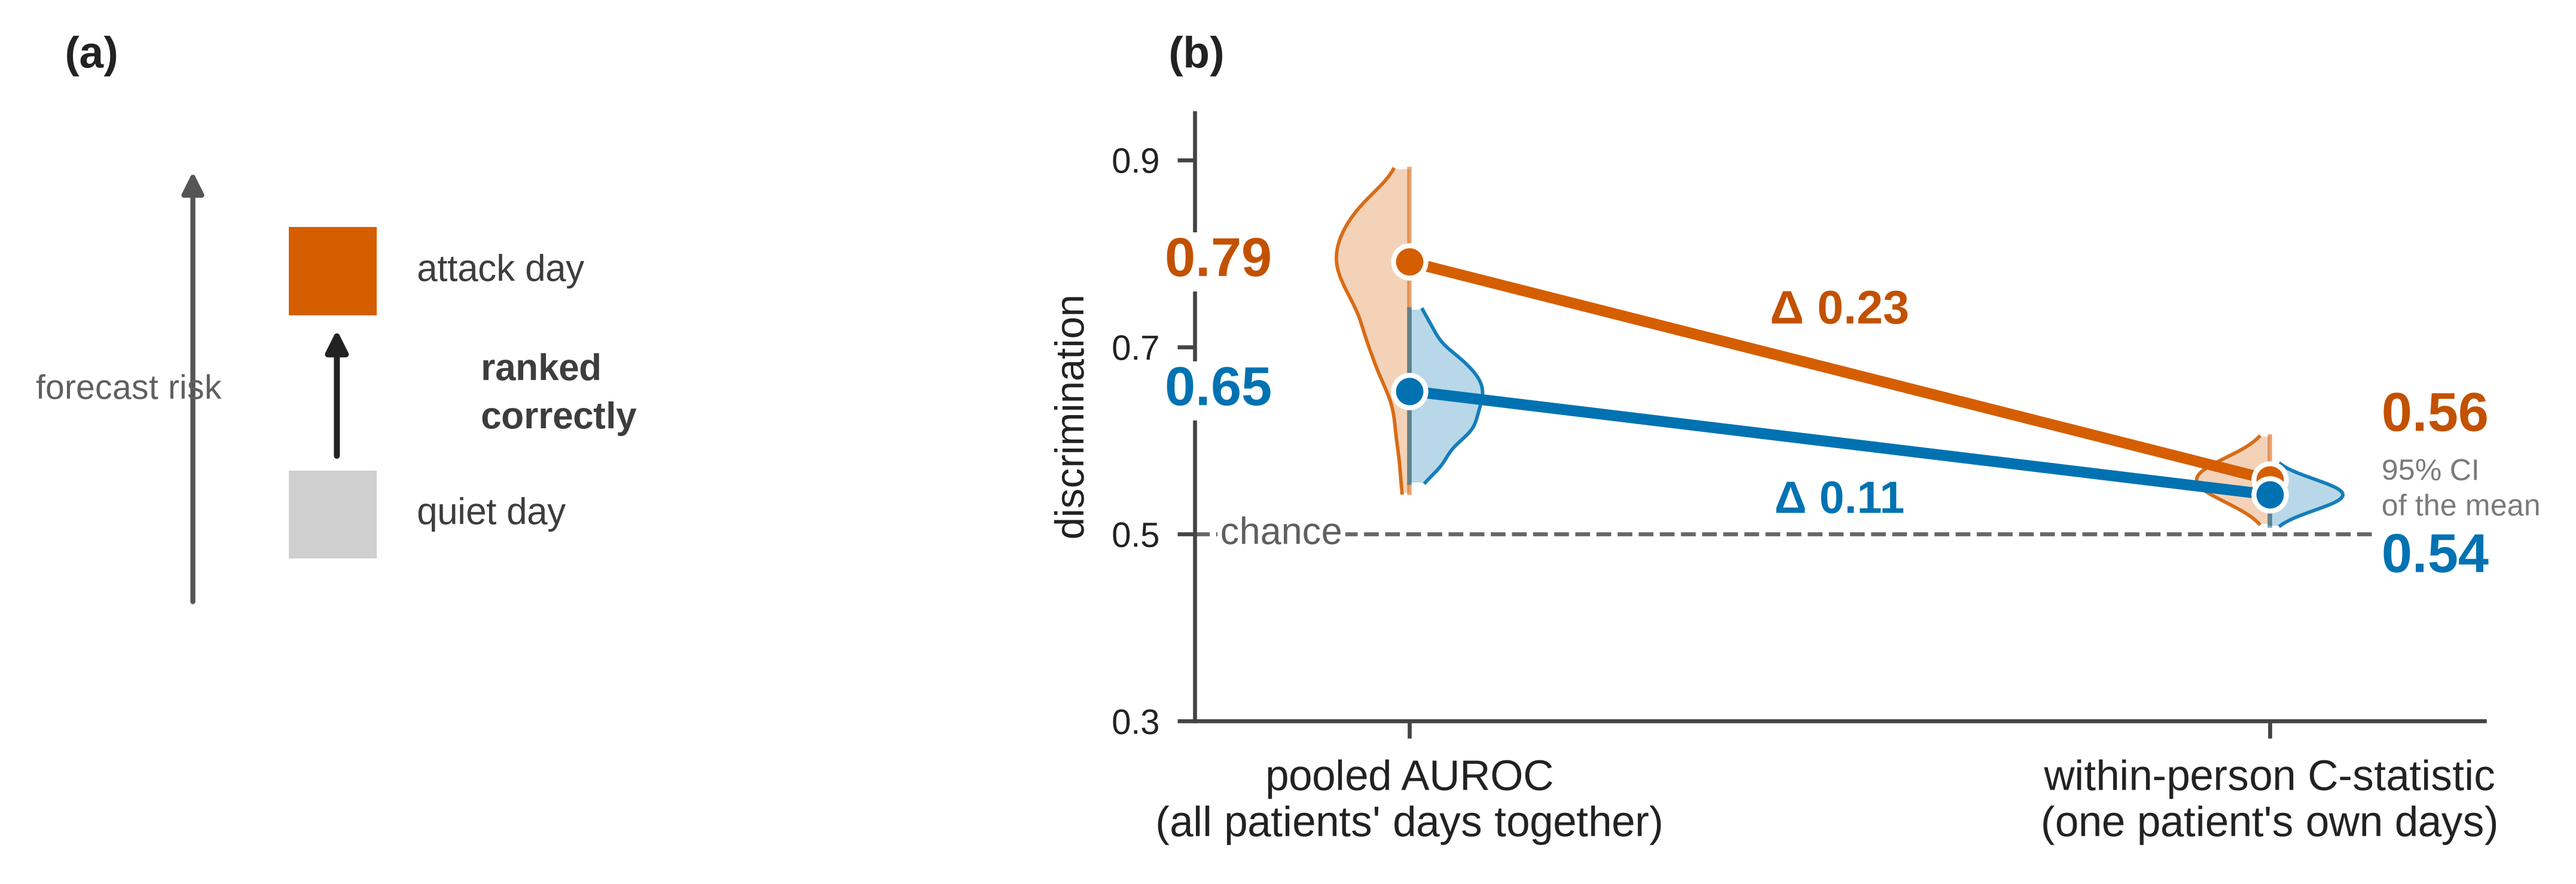
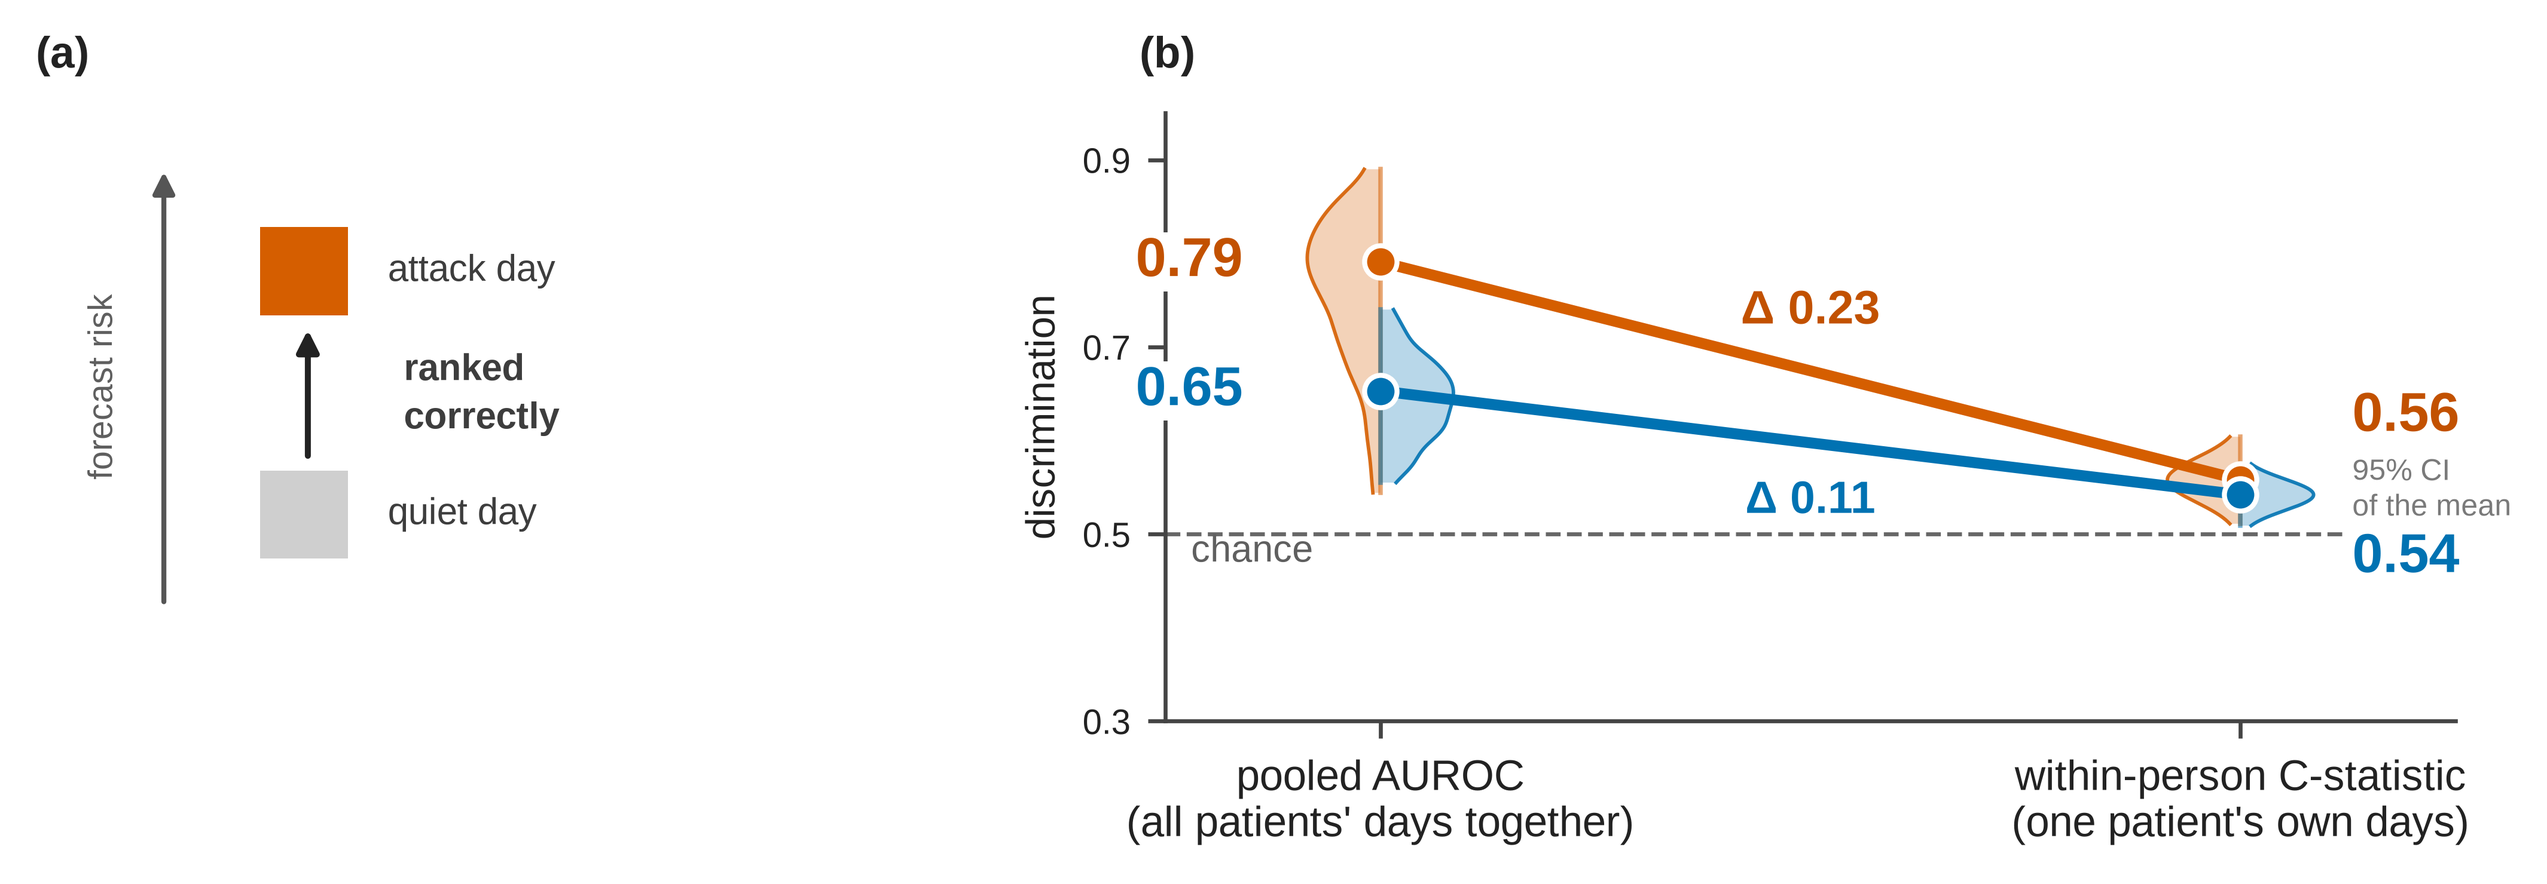
chan2

diff --git a/docs/methodAndResults_diagramCreatorScripts/fig_m_evaluation_series.py b/docs/methodAndResults_diagramCreatorScripts/fig_m_evaluation_series.py
@@ -81,9 +81,10 @@ PT_HEAD, PT_VALUE, PT_AXIS, PT_TICK, PT_BODY, PT_FINE = 8.8, 11.0, 8.0, 7.0, 7.4
 BODY, SECOND, THIRD = "#3d3d3d", "#5f5f5f", "#7a7a7a"
 
 
-def _lab(ax, x, y, t, size=PT_BODY, col=None, ha="left", weight="normal"):
+def _lab(ax, x, y, t, size=PT_BODY, col=None, ha="left", weight="normal",
+         rot=0):
     ax.text(x, y, t, fontsize=size, color=col or SECOND, ha=ha, va="center",
-            fontweight=weight, linespacing=1.5)
+            fontweight=weight, linespacing=1.5, rotation=rot)
 
 
 def _sq(ax, x, y, side, col, alpha=1.0, anchor="center"):
@@ -109,29 +110,29 @@ def _how_auroc(ax, att, hea):
     ax.axis("off"); ax.set_xlim(0, 100); ax.set_ylim(0, 100)
     ax.annotate("", xy=(14, 92), xytext=(14, 18),
                 arrowprops=dict(arrowstyle="-|>", color=S.GREY, lw=1.0))
-    _lab(ax, 6, 55, "forecast risk", PT_FINE, SECOND, ha="center")
+    _lab(ax, 6, 55, "forecast risk", PT_FINE, SECOND, ha="center", rot=90)
     for yy, col, lab in ((74, att, "attack day"), (34, "#cfcfcf", "quiet day")):
         _sq(ax, 26, yy, 11, col)
         _lab(ax, 42, yy, lab, PT_BODY, BODY)
     ax.annotate("", xy=(32, 66), xytext=(32, 42),
                 arrowprops=dict(arrowstyle="-|>", color=S.INK, lw=1.2))
-    _lab(ax, 50, 54, "ranked\ncorrectly", PT_BODY, BODY, weight="bold")
+    _lab(ax, 44, 54, "ranked\ncorrectly", PT_BODY, BODY, weight="bold")
 
 
 def _how_within(ax, att):
     """The same pair test, confined to one patient's own diary."""
     ax.axis("off"); ax.set_xlim(0, 100); ax.set_ylim(0, 100)
-    ax.add_patch(Rectangle((4, 40), 50, 48, fc="#f4f4f4", ec="none"))
-    _lab(ax, 8, 82, "one patient's diary", PT_FINE, SECOND)
-    for yy, col in ((68, att), (50, "#cfcfcf")):
-        _sq(ax, 26, yy, 11, col)
-    ax.annotate("", xy=(20, 70), xytext=(20, 48),
+    ax.add_patch(Rectangle((4, 32), 62, 52, fc="#f4f4f4", ec="none"))
+    _lab(ax, 8, 78, "one patient's diary", PT_FINE, SECOND)
+    for yy, col in ((64, att), (44, "#cfcfcf")):
+        _sq(ax, 24, yy, 11, col)
+    ax.annotate("", xy=(18, 66), xytext=(18, 42),
                 arrowprops=dict(arrowstyle="<|-|>", color=S.INK, lw=1.1,
                                 mutation_scale=8))
-    _lab(ax, 29, 32, "compared", PT_FINE, BODY, ha="center")
-    _sq(ax, 74, 62, 11, "#cfcfcf", alpha=0.5)
-    ax.plot([73, 86], [69, 55], color=S.INK, lw=1.2)
-    _lab(ax, 79, 44, "another patient's day,\nnever compared", PT_FINE, SECOND,
+    _lab(ax, 52, 54, "compared", PT_BODY, BODY, ha="center")
+    _sq(ax, 76, 58, 11, "#cfcfcf", alpha=0.5)
+    ax.plot([77, 86], [63, 53], color=S.INK, lw=1.2)
+    _lab(ax, 81, 38, "another patient's day,\nnever compared", PT_FINE, SECOND,
          ha="center")
 
 

diff --git a/docs/methodAndResults_diagramCreatorScripts/graphical_abstract.py b/docs/methodAndResults_diagramCreatorScripts/graphical_abstract.py
@@ -232,6 +232,19 @@ def _ci_density(ax, xi, est, ci, color, side, zorder, reps=None):
     ax.plot([xi, xi], [lo, hi], color=color, lw=0.9, alpha=0.55, zorder=zorder + 0.1)
 
 
+def _chance_label(ax):
+    """Label the 0.5 reference line identically in both discrimination panels.
+
+    The blended transform fixes x as a fraction of the axes and y in data units, so
+    the label sits at the same relative spot in the slopegraph and the per-patient
+    panel even though their x-limits differ. Below the line rather than on it: the
+    two within-person rules sit only 0.04 above chance, so the space overhead is
+    crowded and the space beneath is clear.
+    """
+    ax.text(0.02, 0.5, "chance", fontsize=7.5, color="#5f5f5f", ha="left", va="top",
+            transform=ax.get_yaxis_transform())
+
+
 def _draw_slopegraph(ax) -> None:
     mig_col = S.target_color("migraine")
     hea_col = S.target_color("headache")
@@ -301,8 +314,7 @@ def _draw_slopegraph(ax) -> None:
     # Target identity is carried by colour + the bottom-strip claim sentence
     # (which names "migraine" and "headache" explicitly); no in-panel target
     # word labels here.
-    ax.text(-0.22, 0.5, "chance", fontsize=7.5, color="#5f5f5f", ha="left",
-            va="center", bbox=dict(fc="white", ec="none", pad=0.6))
+    _chance_label(ax)
     ax.set_xlim(-0.25, 1.25)
     ax.set_ylim(SHARED_YLIM)
     ax.set_xticks([0, 1])
@@ -394,10 +406,7 @@ def _draw_per_patient(ax) -> None:
     ax.set_ylabel("per-patient AUROC", fontsize=8)
     n_mig, n_hea = len(series.get("migraine", [])), len(series.get("headache", []))
     ax.set_xlabel(f"one dot per patient\n({n_hea} headache patients, {n_mig} migraine)", fontsize=8)
-    # Below the line, not above: the two within-person rules sit only 0.04 above
-    # chance, so the space overhead is crowded and the space beneath is clear.
-    ax.text(-0.04, 0.5, "chance", fontsize=7.5, color="#5f5f5f", va="top",
-            ha="left")
+    _chance_label(ax)
 
     for spine in ("top", "right"):
         ax.spines[spine].set_visible(False)
